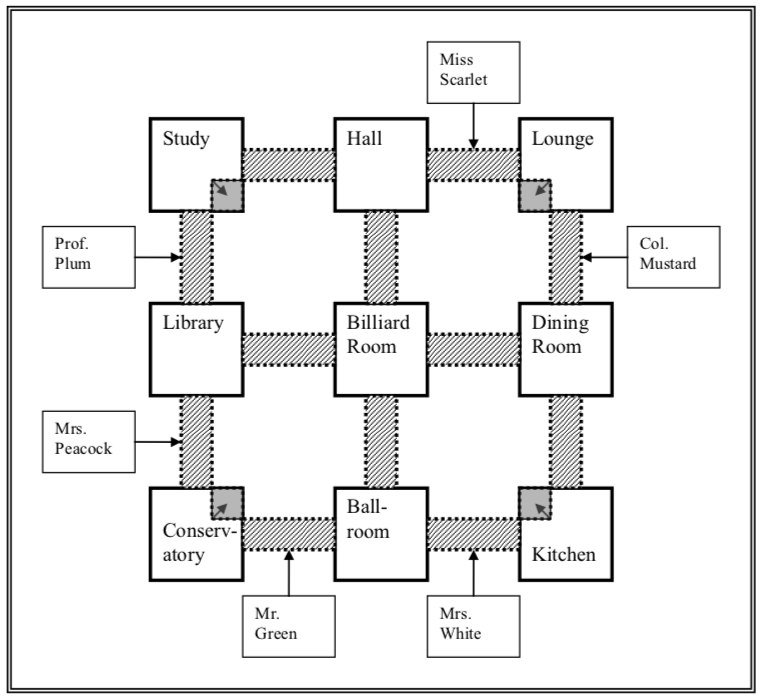
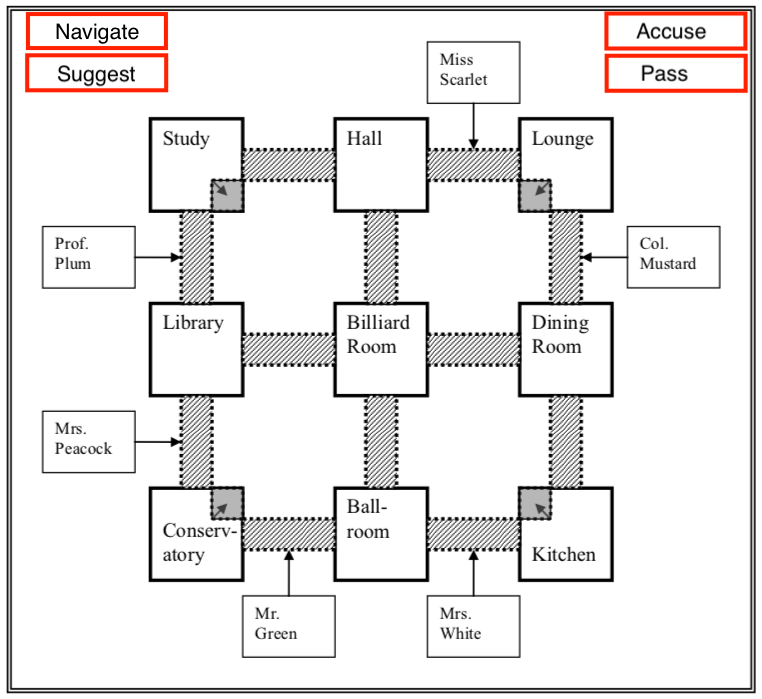
update navigation and board
fill in first few rooms; can move by clicking
put designated sections on board corresponding to each action

Changed region(s): [[0.0302, 0.0, 0.2415, 0.1502], [0.7848, 0.0, 0.9961, 0.1502]]

diff --git a/Client.cpp b/Client.cpp
@@ -38,36 +38,66 @@ SDL_Texture* load_image(string path, SDL_Renderer* renderer){
  * this method returns an int depending on where on the board the mouse is
  * it is used in tandem with a mouse click event
  * to decide what gameplay logic to execute
- * return: int corresponding to board location integers
- * 		-10 corresponds to any other location (no special function)
- * 		ADD OTHER SPECIAL INTS HERE AS THEY COME UP!
+ * return: string corresponding to board action
+ *	using a magic number or enum works as well, but this is easier
  */
-int handle_board_mouse(){		
+string handle_board_mouse(){
+	// can use SCREEN_WIDTH and SCREEN_HEIGHT if needed
 	int mouse_x = 0;
 	int mouse_y = 0;		// mouse coordinates
 	
-	int result = -10;
+	string result = "empty space";
 
 	SDL_GetMouseState(&mouse_x, &mouse_y);
 
 	// cout << "x, y = " << mouse_x << ", " << mouse_y << endl;	// for debugging purposes
+	// get actions
+	if ((mouse_x > 26) && (mouse_x < 157) && (mouse_y > 14) && (mouse_y < 48)){
+		result = "navigate";
+	}
+	else if ((mouse_x > 26) && (mouse_x < 157) && (mouse_y > 58) && (mouse_y < 91)){
+		result = "suggest";
+	}
+	else if ((mouse_x > 573) && (mouse_x < 705) && (mouse_y > 15) && (mouse_y < 48)){
+		result = "accuse";
+	}
+	else if ((mouse_x > 573) && (mouse_x < 705) && (mouse_y > 58) && (mouse_y < 91)){
+		result = "pass";
+	}
 
-	if ((mouse_x > 0) && (mouse_x < SCREEN_WIDTH / 2) && (mouse_y > 0) && (mouse_y < SCREEN_HEIGHT / 2)){
-		// TOP LEFT
-		result = 1;
+	else if ((mouse_x > 142) && (mouse_x < 229) && (mouse_y > 123) && (mouse_y < 217)){
+		result = "Study";
 	}
-	else if ((mouse_x < SCREEN_WIDTH) && (mouse_x >= SCREEN_WIDTH / 2) && (mouse_y > 0) && (mouse_y < SCREEN_HEIGHT / 2)){
+	else if ((mouse_x > 316) && (mouse_x < 404) && (mouse_y > 123) && (mouse_y < 217)){
+		result = "Hall";
+	}
+	else if ((mouse_x > 492) && (mouse_x < 577) && (mouse_y > 123) && (mouse_y < 217)){
+		result = "Lounge";
+	}
+	else if ((mouse_x > 142) && (mouse_x < 229) && (mouse_y > 315) && (mouse_y < 405)){
+		result = "Library";
+	}
+	else if ((mouse_x > 142) && (mouse_x < 229) && (mouse_y > 123) && (mouse_y < 217)){
 		// TOP RIGHT
-		result = 2;
+		result = "4";
 	}
-	else if ((mouse_x > 0) && (mouse_x < SCREEN_WIDTH / 2) && (mouse_y < SCREEN_HEIGHT) && (mouse_y > SCREEN_HEIGHT / 2)){
-		// BOTTOM LEFT
-		result = 3;
-	}
-	else if ((mouse_x < SCREEN_WIDTH) && (mouse_x > SCREEN_WIDTH / 2) && (mouse_y < SCREEN_HEIGHT) && (mouse_y > SCREEN_HEIGHT / 2)){
+	else if ((mouse_x > 142) && (mouse_x < 229) && (mouse_y > 123) && (mouse_y < 217)){
 		// TOP RIGHT
-		result = 4;
+		result = "4";
 	}
+	else if ((mouse_x > 142) && (mouse_x < 229) && (mouse_y > 123) && (mouse_y < 217)){
+		// TOP RIGHT
+		result = "4";
+	}
+	else if ((mouse_x > 142) && (mouse_x < 229) && (mouse_y > 123) && (mouse_y < 217)){
+		// TOP RIGHT
+		result = "4";
+	}
+	else if ((mouse_x > 142) && (mouse_x < 229) && (mouse_y > 123) && (mouse_y < 217)){
+		// TOP RIGHT
+		result = "4";
+	}
+	
 
 	// can use these for ease if we're custom rendering stuff
 	// else if ( (mouse_x > TextTexture_R[Main_Instruct].x) && (mouse_x < TextTexture_R[Main_Instruct].x + TextTexture_R[Main_Instruct].w) && (mouse_y > TextTexture_R[Main_Instruct].y) && (mouse_y < TextTexture_R[Main_Instruct].y + TextTexture_R[Main_Instruct].h)){
@@ -89,6 +119,11 @@ int handle_board_mouse(){
 	// else{
 	// 	SDL_RenderCopyEx(gRenderer, TextTextures[Main_Play_H], NULL, &TextTexture_R[Main_Play_H], 0, NULL, SDL_FLIP_NONE);
 	// }
+
+
+	// this will make it very quick to figure out what pixels to click 
+	// result = "(x, y) = (" + to_string(mouse_x) + ", " + to_string(mouse_y) + ")";
+
 
 	return result;
 }
@@ -304,8 +339,8 @@ int main(int argc, char *argv[]){
 	SDL_Event e;
 	bool quit = false;
 	bool premature_quit = false;	// if someone exits their window
-	string action, response;
-	int mouse_output, incoming_stream;;
+	string action, response, mouse_output;
+	int incoming_stream;;
 	bool turn_end = false;
 
 	// SDL_RenderClear(renderer);
@@ -393,12 +428,14 @@ int main(int argc, char *argv[]){
 			            premature_quit = true;
 			        }
 			        else if (!turn_end && (e.type == SDL_MOUSEBUTTONDOWN) && (e.button.button == SDL_BUTTON_LEFT)){
-			        	if (mouse_output == -10){
+			        	cout << "click: " << mouse_output << endl;
+
+			        	if (mouse_output.compare("invalid") == 0){
 			        		cout << "boundary click" << endl;
 			        		turn_end = false;
 			        	}
-			        	else if (mouse_output == 1){
-			        		cout << "TOP LEFT CLICK!" << endl;
+			        	else if (mouse_output.compare("navigate") == 0){
+			        		// cout << "TOP LEFT CLICK!" << endl;
 
 			        		// send to server
 			        		response = "navigate";
@@ -441,8 +478,8 @@ int main(int argc, char *argv[]){
 							// }
 						    
 			        	}
-			        	else if (mouse_output == 2){
-			        		cout << "TOP RIGHT CLICK!" << endl;
+			        	else if (mouse_output.compare("pass") == 0){
+			        		// cout << "TOP RIGHT CLICK!" << endl;
 			        		response = "pass";
 			        		out = write(client_socket, response.c_str(), response.size() + 2);
 						    if (out < 0){
@@ -457,8 +494,7 @@ int main(int argc, char *argv[]){
 							if (action.compare(turn_end_str) == 0) turn_end = true;
 						    
 			        	}
-			        	else if (mouse_output == 3){
-			        		cout << "BOTTOM LEFT CLICK!" << endl;
+			        	else if (mouse_output.compare("Hall") == 0){
 			        		response = "Hall";
 
 			        		out = write(client_socket, response.c_str(), response.size() + 2);
@@ -473,8 +509,7 @@ int main(int argc, char *argv[]){
 							);
 
 			        	}
-			        	else if (mouse_output == 4){
-			        		cout << "BOTTOM RIGHT CLICK!" << endl;
+			        	else if (mouse_output.compare("Study") == 0){
 			        		response = "Study";
 
 			        		out = write(client_socket, response.c_str(), response.size() + 2);
@@ -492,7 +527,9 @@ int main(int argc, char *argv[]){
 			        	}
 			        	else {
 			        		turn_end = false;
-			        		cout << "invalid click?" << endl;
+			        		// cout << "invalid click?" << endl;
+
+			        		cout << "empty click?" << mouse_output << endl;
 			        	}
 			        }	        
 			    }
@@ -515,27 +552,27 @@ int main(int argc, char *argv[]){
 	        }
 	        else if ((e.type == SDL_MOUSEBUTTONDOWN) && (e.button.button == SDL_BUTTON_LEFT)){
 	        	turn_end = true;
-	        	if (mouse_output == -10){
+	        	if (mouse_output.compare("invalid") == 0){
 	        		cout << "boundary click" << endl;
 	        		
 
 	        	}
-	        	else if (mouse_output == 1){
-	        		cout << "TOP LEFT CLICK!" << endl;
-	        	}
-	        	else if (mouse_output == 2){
-	        		cout << "TOP RIGHT CLICK!" << endl;
-	        	}
-	        	else if (mouse_output == 3){
-	        		cout << "BOTTOM LEFT CLICK!" << endl;
-	        	}
-	        	else if (mouse_output == 4){
-	        		cout << "BOTTOM RIGHT CLICK!" << endl;
-	        	}
-	        	else {
-	        		turn_end = false;
-	        		cout << "invalid click?" << endl;
-	        	}
+	        	// else if (mouse_output.compare()){
+	        	// 	cout << "TOP LEFT CLICK!" << endl;
+	        	// }
+	        	// else if (mouse_output == 2){
+	        	// 	cout << "TOP RIGHT CLICK!" << endl;
+	        	// }
+	        	// else if (mouse_output == 3){
+	        	// 	cout << "BOTTOM LEFT CLICK!" << endl;
+	        	// }
+	        	// else if (mouse_output == 4){
+	        	// 	cout << "BOTTOM RIGHT CLICK!" << endl;
+	        	// }
+	        	// else {
+	        	// 	turn_end = false;
+	        	// 	cout << "invalid click?" << endl;
+	        	// }
 	        }	        
 	    }
 		
